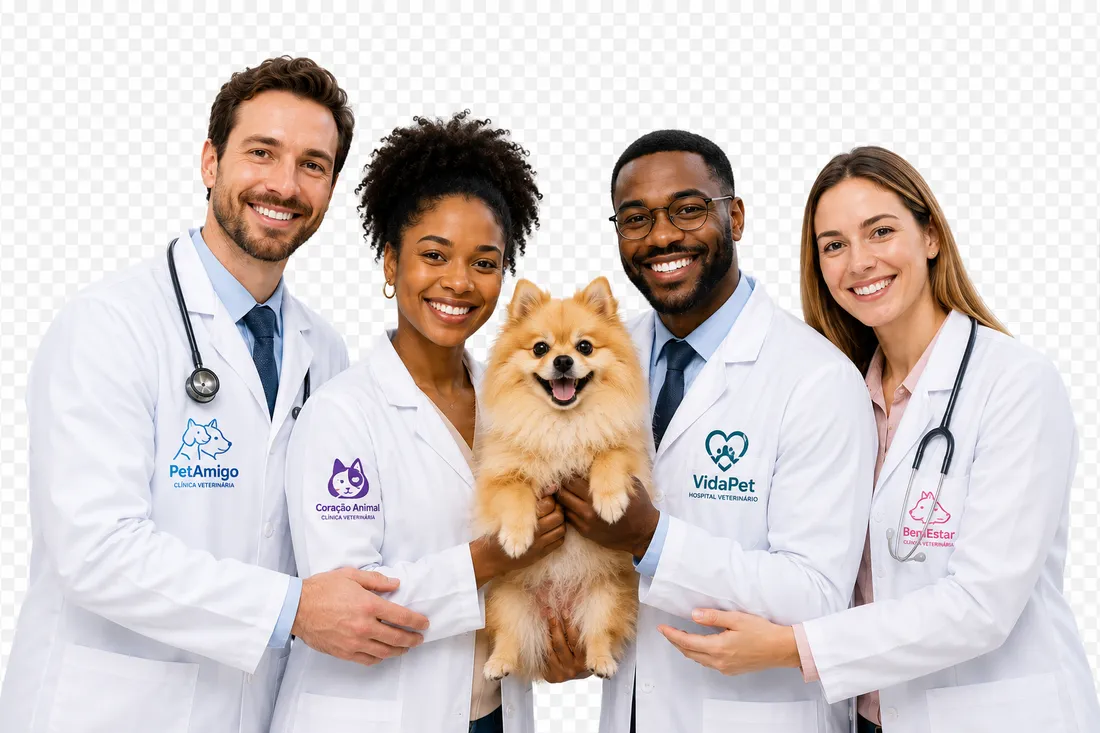
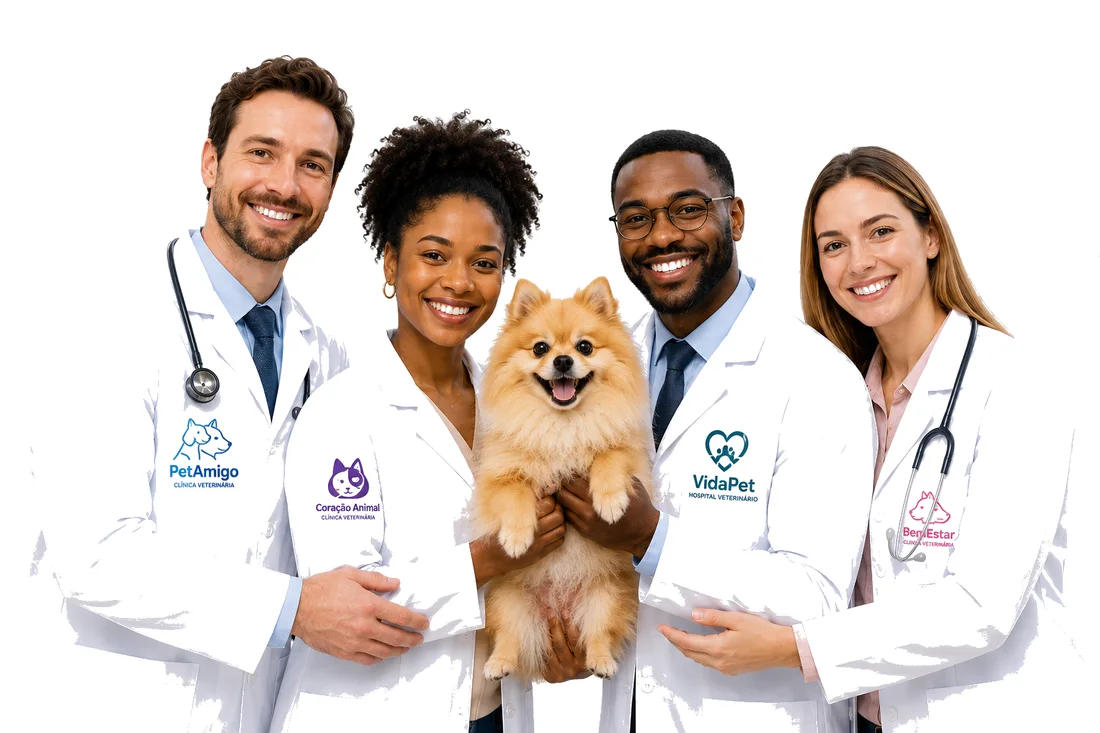
fix: hero em card branco + fundo da imagem limpo (remove xadrez); cache-bust

diff --git a/lp.html b/lp.html
@@ -109,6 +109,8 @@
     .hero-trust b{font-family:'Poppins';font-weight:700;font-size:18px;color:#fff}
     .hero-trust span{font-size:11.5px;line-height:1.35;color:rgba(245,247,250,.6)}
     .hero-img{display:block;width:100%;max-width:560px;height:auto;margin:0 auto}
+    .hero-card{background:#fff;border-radius:18px;overflow:hidden;max-width:560px;width:100%;margin:0 auto;box-shadow:0 20px 50px rgba(4,14,50,.35)}
+    .hero-card img{display:block;width:100%;height:auto;margin:0}
 
     /* mockup */
     .mockup{background:#fff;border-radius:18px;box-shadow:0 24px 60px rgba(4,14,50,.4);overflow:hidden;max-width:380px;width:100%;margin:0 auto}
@@ -273,7 +275,9 @@
         </div>
       </div>
       <div>
-        <img class="hero-img" src="/equipe.webp" alt="Equipe de veterinários com a Luna, cliente da Fluxxo Pet" width="1100" height="733" />
+        <div class="hero-card">
+          <img src="/equipe.webp?v=2" alt="Equipe de veterinários com a Luna, cliente da Fluxxo Pet" width="1100" height="733" />
+        </div>
       </div>
     </div>
   </header>
